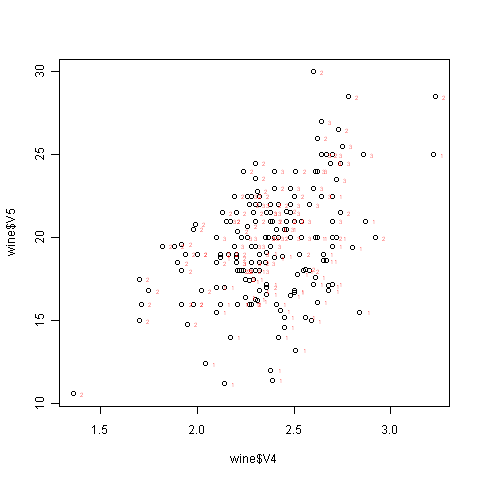
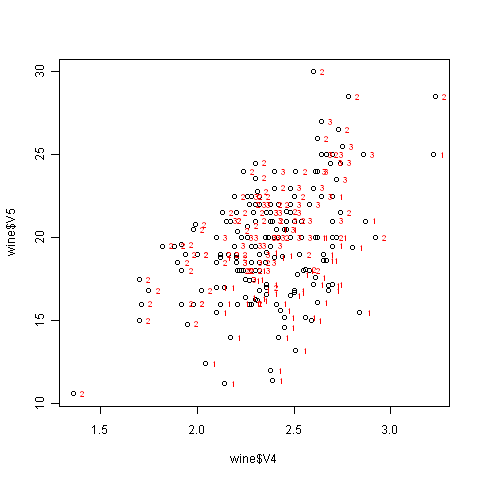
multivariate analysis

diff --git a/src/multivariateanalysis.rst b/src/multivariateanalysis.rst
@@ -160,7 +160,7 @@ V1 of the variable "wine", so we type:
 
 ::
 
-    > text(wine$V4, wine$V5, wine$V1, cex=0.5, pos=4, col="red")
+    > text(wine$V4, wine$V5, wine$V1, cex=0.7, pos=4, col="red")
 
 If you look at the help page for the "text" function, you will see that "pos=4" will plot the text just to the
 right of the symbol for a data point. The "cex=0.5" option will plot the text at half the default size, and
@@ -216,6 +216,8 @@ The content in this book is licensed under a `Creative Commons Attribution 3.0 L
 <http://creativecommons.org/licenses/by/3.0/>`_.
 
 .. |image1| image:: ../_static/image1.png
+            :width: 900
 .. |image2| image:: ../_static/image2.png
+            :width: 500
 .. |image4| image:: ../_static/image4.png
-
+            :width: 500
